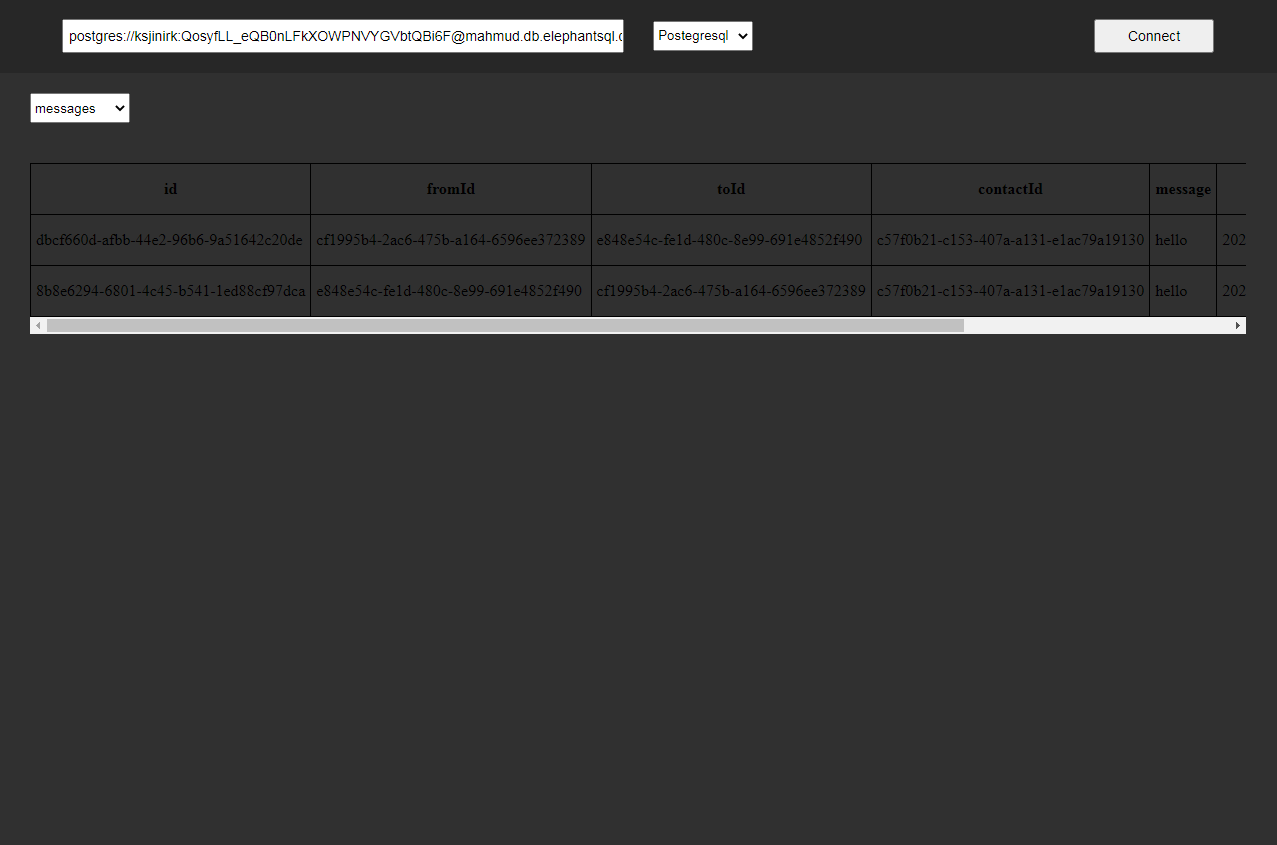
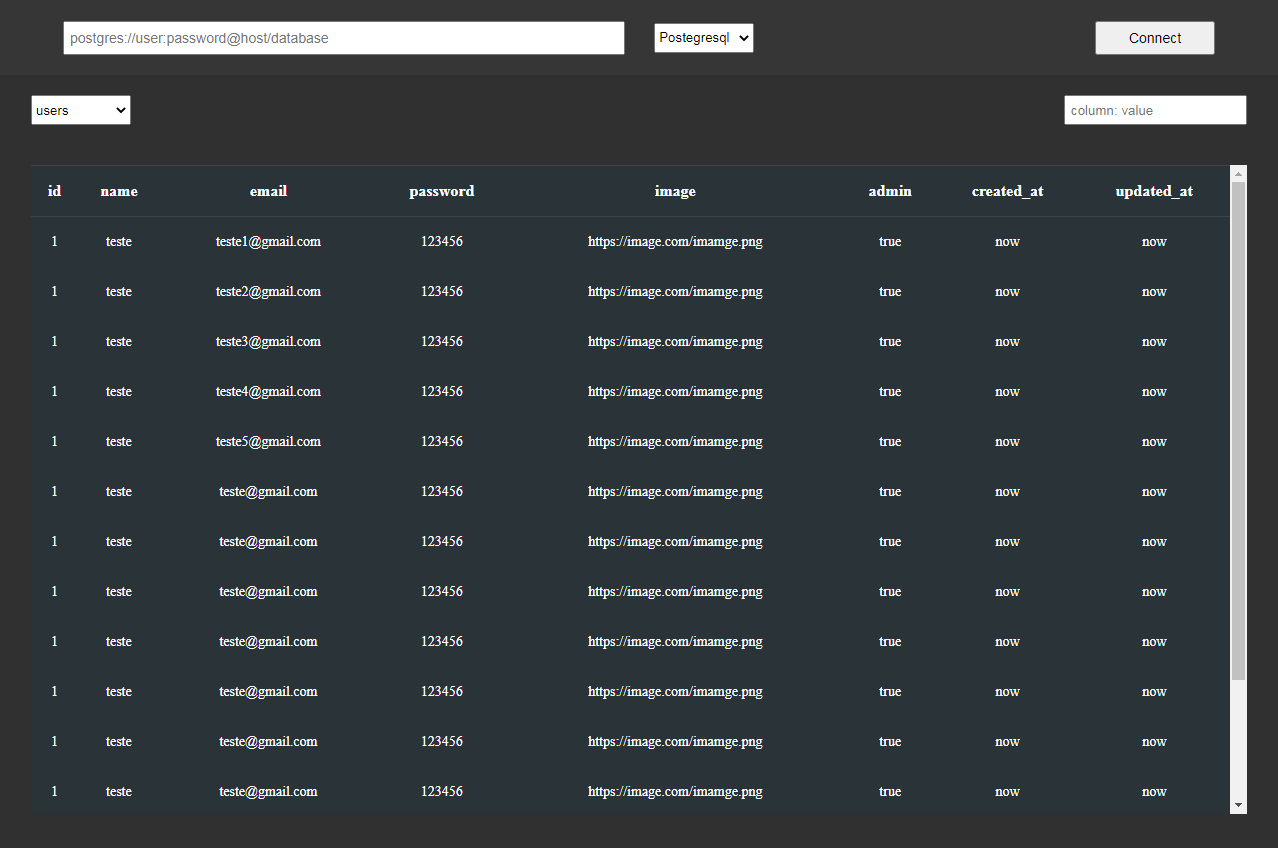
update style and add search

diff --git a/src/pages/home/Home.tsx b/src/pages/home/Home.tsx
@@ -1,4 +1,4 @@
-import { useState } from "react"
+import React, { useState } from "react"
 import style from "./home.module.css"
 import { useDispatch, useSelector } from "react-redux"
 import Header from "../../components/header/header"
@@ -15,43 +15,48 @@ function Home(){
     const [url, setUrl] = useState("")
     const [language, setLanguage] = useState("Postgresql")
     const [load, setLoad] = useState("Connect")
-    const [error, setError] = useState("")
     const [currentTable, setCurrentTable] = useState(0)
-
-    function timeout(delay: number) {
-        return new Promise(res => setTimeout(res, delay))
-    }
+    const [searchValue, setSearchValue] = useState("")
 
     async function connection(){
         if (url !== ""){
             setLoad("Connecting...")
             dispatch({ type: DatabaseTypes.LOAD_REQUEST, payload: { url, language, setLoad }})
-        } else {
-            setError("Empty url")
-            await timeout(2000)
-            setError("")
         }
+    }
+
+    function search(e: string){
+        console.log(e)
+        if (e == "") {
+            dispatch({ type: DatabaseTypes.FILTER, payload: { currentTable, column: "", value: "" }})
+            return
+        }
+        const parts = e.split(": ")
+        if (parts[1] == "") dispatch({ type: DatabaseTypes.FILTER, payload: { currentTable, column: parts[0], value: parts[1] }})
+        if (parts.length > 2 || !parts[0] || !parts[1]) return
+        dispatch({ type: DatabaseTypes.FILTER, payload: { currentTable, column: parts[0], value: parts[1] }})
     }
 
     return(
         <>
-            <Header connection={connection} setUrl={setUrl} load={load} error={error} setLanguage={setLanguage}/>
+            <Header connection={connection} setUrl={setUrl} load={load} setLanguage={setLanguage}/>
             <main id={style.main}>
                 { 
                     State.database.data.length != 0 ?
-                        <div id={style.table}>
-                            <div id={style.select}>
-                                <select onChange={(e: any) => setCurrentTable(e.target.value)}>
+                        <div id={style.localTable}>
+                            <div id={style.selectSearch}>
+                                <select onChange={(e: any) => {setCurrentTable(e.target.value); setSearchValue("")}}>
                                     { State.database.data.map((table, index) => <option value={index}>{table.table}</option>) }
                                 </select>
+                                <input value={searchValue} type="text" placeholder="column: value" onChange={(e) => {search(e.target.value), setSearchValue(e.target.value)}}/>
                             </div>
-                            <div style={{"overflowX": "auto"}}>
+                            <div id={style.table}>
                                 { 
-                                    <Table database={State.database.data[currentTable]}/>
+                                    <Table database={State.database.search[currentTable]}/>
                                 }
                             </div>
                         </div>
-                    : 
+                    :
                         <></>
                 }
             </main>

diff --git a/src/store/ducks/database/index.ts b/src/store/ducks/database/index.ts
@@ -1,8 +1,9 @@
 import { Reducer } from "redux"
-import { DatabaseTypes, DatabaseState} from "./types"
+import { DatabaseTypes, DatabaseState, rows} from "./types"
 
 const INITIAL_STATE: DatabaseState = {
     data: [],
+    search: [],
     loading: false,
     error: false
 }
@@ -12,9 +13,24 @@ const reducer: Reducer<DatabaseState> = (state = INITIAL_STATE, action) => {
         case DatabaseTypes.LOAD_REQUEST:
             return { ...state, loading: true }
         case DatabaseTypes.LOAD_SUCCESS:
-            return { ...state, loading: false, error: false, data: action.payload.data }
+            return { ...state, loading: false, error: false, data: action.payload.data, search: action.payload.data }
         case DatabaseTypes.LOAD_FAILURE:
             return { ...state, loading: false, error: true, data: [] }
+        case DatabaseTypes.FILTER:
+            var filteredValues: rows[]
+            const column = action.payload.column
+            const value = action.payload.value
+            const currentTable = action.payload.currentTable
+            const table = state.data[currentTable]
+
+            if (value == "" && column == ""){
+                console.log(value, column)
+                return { ...state, search: [ ...state.data ]}
+            }
+            const columnIndex = table.columns.indexOf(column)
+            if (columnIndex < 0) return { ...state }
+            filteredValues = table.values.filter((_value) => value != "" ? String(_value[column]).toLowerCase().includes(String(value).toLowerCase()) : _value)
+            return { ...state, search: state.search.map((value, index) => index == currentTable ?  { ...state.search[currentTable], values: filteredValues } : value)}
         default:
             return state
     }

diff --git a/src/store/ducks/database/types.ts b/src/store/ducks/database/types.ts
@@ -1,7 +1,9 @@
 export enum DatabaseTypes{
     "LOAD_REQUEST" = "@DataDB/LOAD_REQUEST",
     "LOAD_SUCCESS" = "@DataDB/LOAD_SUCCESS",
-    "LOAD_FAILURE" = "@DataDB/LOAD_FAILURE"
+    "LOAD_FAILURE" = "@DataDB/LOAD_FAILURE",
+
+    "FILTER" = "@DataDB/FILTER",
 }
 
 export type LoadRequestPayload = {
@@ -10,17 +12,26 @@ export type LoadRequestPayload = {
     setLoad: Function
 }
 
+export type FilterPayload = {
+    column: string
+    value: string
+    currentTable: number
+}
+
+export type rows = {
+    [key: string]: string | number | any[] | object | boolean
+    [key: number]: string | number | any[] | object | boolean
+}
+
 export type Database = {
     table: string
     columns: string[]
-    values: {
-        [key: string]: string | number | any[] | object
-        [key: number]: string | number | any[] | object
-    }[]
+    values: rows[]
 }
 
 export interface DatabaseState{
     readonly data: Database[]
+    readonly search: Database[]
     readonly loading: boolean
     readonly error: boolean
 }

diff --git a/src/pages/home/home.module.css b/src/pages/home/home.module.css
@@ -1,5 +1,5 @@
 #main{
-    background-color: rgb(48, 48, 48);
+    background-color: #303030;
     width: 100%;
     min-height: calc(100vh - 75px);
     display: flex;
@@ -7,19 +7,31 @@
 }
 
 #table{
-    width: 95%;
-    margin-top: 20px;
+   background-color: #2a3338;
+   overflow: auto;
+   max-height: calc(100vh - 200px);
 }
-#select{
+#selectSearch{
     margin-bottom: 40px;
+    display: flex;
+    justify-content: space-between;
 }
-#select select{
+#selectSearch select{
     width: 100px;
     height: 30px;
 }
-#select select:focus{
+#selectSearch select:focus{
     outline: none;
 }
-#select select:hover{
+#selectSearch select:hover{
     cursor: pointer;
+}
+#localTable{
+    width: 95%;
+    margin-top: 20px;
+}
+#selectSearch input{
+    outline: none;
+    padding-left: 5px;
+    padding-right: 5px;
 }

diff --git a/src/components/header/header.tsx b/src/components/header/header.tsx
@@ -5,7 +5,6 @@ type HeaderProps = {
     connection: Function
     setUrl: Function
     load: string
-    error: string
     setLanguage: Function
 }
 
@@ -18,7 +17,6 @@ function Header(props: HeaderProps){
                 <div id={style.inputs}>
                     <div>
                         <input type="text" id={style.input} placeholder={language === "Postegresql" ? "postgres://user:password@host/database" : "mysql://user:password@host/database"} onChange={(e) => props.setUrl(e.target.value)}/>
-                        <span>{props.error}</span>
                     </div>
                     <div>
                         <select id={style.select} onChange={(e) => {props.setLanguage(e.target.value); setLanguage(e.target.value)}}>

diff --git a/src/store/ducks/database/saga.ts b/src/store/ducks/database/saga.ts
@@ -1,4 +1,4 @@
-import { call, put, takeEvery } from "@redux-saga/core/effects";
+import { call, put } from "@redux-saga/core/effects";
 import api from "../../../components/api";
 import { loadFailure, loadSuccess, loadRequest} from "./actions";
 import { Database } from "./types"
@@ -22,9 +22,9 @@ export function* GetDatabase({ payload }: ReturnType<typeof loadRequest>){
         setLoad("Connect")
 
         yield put(loadSuccess(response.data.result.database))
-    } catch (error) {
+    } catch (error: any) {
         setLoad("Connect")
-        alert(error)
+        alert(error.response.data.error)
         yield put(loadFailure())
     }
 }

diff --git a/src/store/ducks/database/actions.ts b/src/store/ducks/database/actions.ts
@@ -1,6 +1,8 @@
 import { action } from "typesafe-actions";
-import { Database, DatabaseTypes, LoadRequestPayload } from "./types"
+import { Database, DatabaseTypes, FilterPayload, LoadRequestPayload } from "./types"
 
 export const loadRequest = (payload: LoadRequestPayload) => action(DatabaseTypes.LOAD_REQUEST, { payload })
 export const loadSuccess = (data: Database[]) => action(DatabaseTypes.LOAD_SUCCESS, { data })
 export const loadFailure = () => action(DatabaseTypes.LOAD_FAILURE)
+
+export const filter = (payload: FilterPayload) => action(DatabaseTypes.FILTER, { payload })

diff --git a/src/components/table/Table.tsx b/src/components/table/Table.tsx
@@ -9,9 +9,9 @@ function Table(props: TableProps){
     return(
         <table id={style.table}>
             <tr>
-                { props.database.columns.map(column => <th>{column}</th>)}
+                { props.database.columns.map(column => <th>{String(column)}</th>)}
             </tr>
-            { props.database.values.map((row: any ) => <tr>{Object.values(row).map((value: any) => <td>{value}</td>)}</tr>)}
+            { props.database.values.map((row: any ) => <tr>{Object.values(row).map((value: any) => <td>{String(value)}</td>)}</tr>)}
         </table>
     )
 }

diff --git a/src/components/table/table.module.css b/src/components/table/table.module.css
@@ -1,15 +1,24 @@
 #table{
     border-collapse: collapse;
     white-space: nowrap;
+    width: 100%;
+}
+#table tr:nth-child(1){
+    border-top: 1px solid rgb(61, 68, 73);
+    border-bottom: 1px solid rgb(61, 68, 73);
 }
 #table th{
-    border: 1px solid black;
     height: 40px;
     padding: 5px;
+    color: white;
 }
 
 #table td{
     height: 40px;
-    border: 1px solid black;
     padding: 5px;
+    color: white;
+    padding-right: 10px;
+    padding-left: 10px;
+    font-size: 14px;
+    text-align: center;
 }

diff --git a/src/components/header/header.module.css b/src/components/header/header.module.css
@@ -31,7 +31,7 @@
 #header{
     width: 100%;
     height: 75px;
-    background-color: rgb(39, 39, 39);
+    background-color: #363636;
     display: flex;
     justify-content: center;
     align-items: center;

diff --git a/README.md b/README.md
@@ -5,3 +5,6 @@ Site Url: https://main--celadon-lokum-4d69c5.netlify.app/
 <div>
 <img src="./screenshots/Screenshot.png" width="500"/>
 </div>
+<div>
+<img src="./screenshots/Screenshot (1).png" width="500"/>
+</div>
